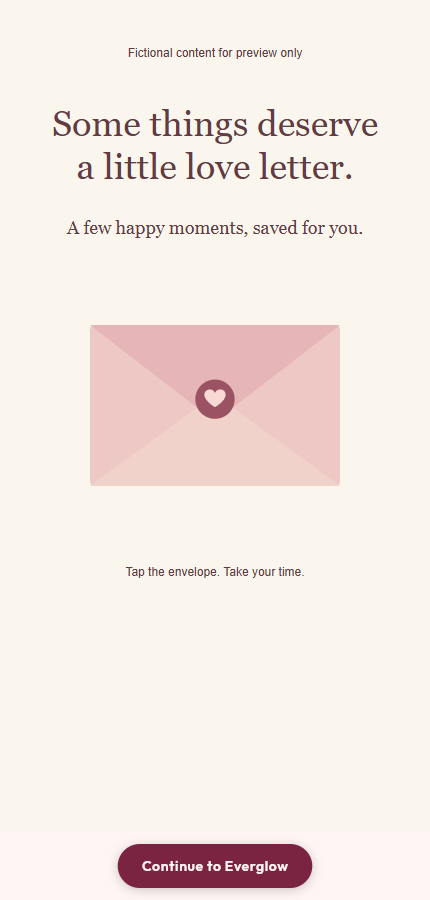
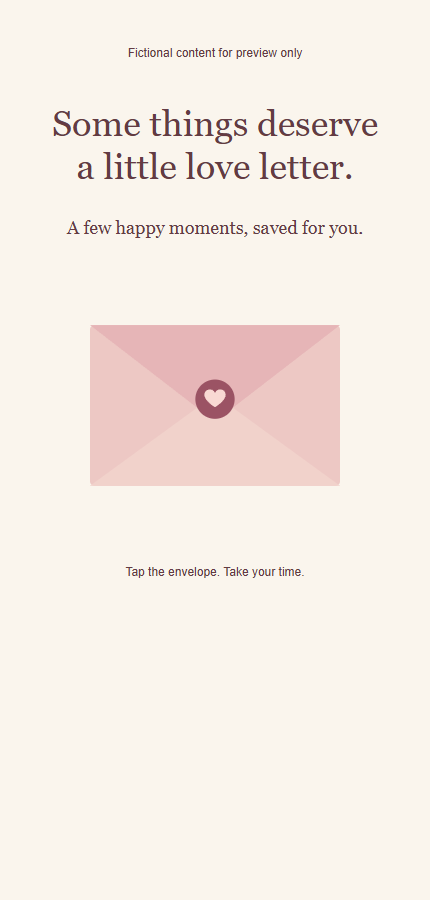
fix(entry): reveal gift continuation after the closing message

Changed region(s): [[0.2721, 0.9333, 0.7256, 0.9956]]

diff --git a/lib/features/entry/presentation/widgets/welcome_gift_gate.dart b/lib/features/entry/presentation/widgets/welcome_gift_gate.dart
@@ -27,6 +27,7 @@ class WelcomeGiftGate extends StatefulWidget {
 class _WelcomeGiftGateState extends State<WelcomeGiftGate> {
   late final WelcomeGiftService _service;
   String? _html;
+  bool _contentFinished = false;
   bool _saving = false;
   bool _saveFailed = false;
 
@@ -42,6 +43,7 @@ class _WelcomeGiftGateState extends State<WelcomeGiftGate> {
     super.didUpdateWidget(oldWidget);
     if (oldWidget.recipientUid != widget.recipientUid) {
       _html = null;
+      _contentFinished = false;
       _saving = false;
       _saveFailed = false;
       unawaited(_load());
@@ -58,7 +60,7 @@ class _WelcomeGiftGateState extends State<WelcomeGiftGate> {
 
   Future<void> _complete() async {
     final uid = widget.recipientUid;
-    if (_saving || uid == null) return;
+    if (!_contentFinished || _saving || uid == null) return;
     setState(() {
       _saving = true;
       _saveFailed = false;
@@ -94,34 +96,44 @@ class _WelcomeGiftGateState extends State<WelcomeGiftGate> {
         ExcludeFocus(child: ExcludeSemantics(child: widget.child)),
         Scaffold(
           backgroundColor: AppColors.petalWhite,
-          body: SafeArea(bottom: false, child: CanvasHtmlView(html: html)),
-          bottomNavigationBar: SafeArea(
-            top: false,
-            child: Padding(
-              padding: const EdgeInsets.fromLTRB(20, 12, 20, 12),
-              child: Column(
-                mainAxisSize: MainAxisSize.min,
-                children: [
-                  if (_saveFailed)
-                    const Padding(
-                      padding: EdgeInsets.only(bottom: 10),
-                      child: Text(
-                        "Couldn't save right now. Check your connection and try again.",
-                        textAlign: TextAlign.center,
-                        style: TextStyle(color: AppColors.roseDepths),
-                      ),
-                    ),
-                  EverglowButton(
-                    label: _saving ? 'Saving...' : 'Continue to Everglow',
-                    enabled: !_saving,
-                    onPressed: _complete,
-                    backgroundColor: AppColors.roseDepths,
-                    foregroundColor: AppColors.petalWhite,
-                  ),
-                ],
-              ),
+          body: SafeArea(
+            bottom: !_contentFinished,
+            child: CanvasHtmlView(
+              html: html,
+              onContentFinishedChanged: (finished) {
+                if (mounted) setState(() => _contentFinished = finished);
+              },
             ),
           ),
+          bottomNavigationBar: !_contentFinished
+              ? null
+              : SafeArea(
+                  top: false,
+                  child: Padding(
+                    padding: const EdgeInsets.fromLTRB(20, 12, 20, 12),
+                    child: Column(
+                      mainAxisSize: MainAxisSize.min,
+                      children: [
+                        if (_saveFailed)
+                          const Padding(
+                            padding: EdgeInsets.only(bottom: 10),
+                            child: Text(
+                              "Couldn't save right now. Check your connection and try again.",
+                              textAlign: TextAlign.center,
+                              style: TextStyle(color: AppColors.roseDepths),
+                            ),
+                          ),
+                        EverglowButton(
+                          label: _saving ? 'Saving...' : 'Continue to Everglow',
+                          enabled: !_saving,
+                          onPressed: _complete,
+                          backgroundColor: AppColors.roseDepths,
+                          foregroundColor: AppColors.petalWhite,
+                        ),
+                      ],
+                    ),
+                  ),
+                ),
         ),
       ],
     );

diff --git a/test/features/entry/welcome_gift_gate_test.dart b/test/features/entry/welcome_gift_gate_test.dart
@@ -58,6 +58,11 @@ void main() {
       await tester.pumpWidget(_app(service));
       await tester.pump();
       expect(find.byType(CanvasHtmlView), findsOneWidget);
+      expect(find.text('Continue to Everglow'), findsNothing);
+      tester
+          .widget<CanvasHtmlView>(find.byType(CanvasHtmlView))
+          .onContentFinishedChanged!(true);
+      await tester.pump();
       await tester.tap(find.text('Continue to Everglow'));
       await tester.pump();
       expect(find.text('Saving...'), findsOneWidget);
@@ -93,6 +98,10 @@ void main() {
     final service = _GiftService()..failSave = true;
     await tester.pumpWidget(_app(service));
     await tester.pump();
+    tester
+        .widget<CanvasHtmlView>(find.byType(CanvasHtmlView))
+        .onContentFinishedChanged!(true);
+    await tester.pump();
     await tester.tap(find.text('Continue to Everglow'));
     await tester.pumpAndSettle();
     expect(find.textContaining("Couldn't save right now"), findsOneWidget);
@@ -102,6 +111,32 @@ void main() {
     await tester.pumpAndSettle();
     expect(find.byType(CanvasHtmlView), findsNothing);
     expect(service.saves, 2);
+  }, variant: linux);
+
+  testWidgets('reading, restart and recipient change hide Continue', (
+    tester,
+  ) async {
+    final service = _GiftService();
+    await tester.pumpWidget(_app(service));
+    await tester.pump();
+    final report = tester
+        .widget<CanvasHtmlView>(find.byType(CanvasHtmlView))
+        .onContentFinishedChanged!;
+    report(false);
+    await tester.pump();
+    expect(find.text('Continue to Everglow'), findsNothing);
+    report(true);
+    await tester.pump();
+    expect(find.text('Continue to Everglow'), findsOneWidget);
+    report(false);
+    await tester.pump();
+    expect(find.text('Continue to Everglow'), findsNothing);
+    report(true);
+    await tester.pump();
+    await tester.pumpWidget(_app(service, uid: 'another-recipient'));
+    await tester.pump();
+    expect(find.text('Continue to Everglow'), findsNothing);
+    expect(service.saves, 0);
   }, variant: linux);
 
   testWidgets('a delayed read cannot reveal the gift after sign-out', (
@@ -124,6 +159,11 @@ void main() {
       addTearDown(tester.view.resetPhysicalSize);
       addTearDown(tester.view.resetDevicePixelRatio);
       await tester.pumpWidget(_app(_GiftService()));
+      await tester.pumpAndSettle();
+      expect(find.text('Continue to Everglow'), findsNothing);
+      tester
+          .widget<CanvasHtmlView>(find.byType(CanvasHtmlView))
+          .onContentFinishedChanged!(true);
       await tester.pumpAndSettle();
       expect(find.text('Continue to Everglow'), findsOneWidget);
       expect(tester.takeException(), isNull);

diff --git a/tool/welcome_gift_preview.dart b/tool/welcome_gift_preview.dart
@@ -64,5 +64,6 @@ const _html =
 <style>*{box-sizing:border-box}body{margin:0;background:#faf5ed;color:#633b43;font-family:Georgia,serif;text-align:center;padding:42px 24px}h1{font-weight:400;font-size:clamp(36px,6vw,52px);line-height:1.18;margin:40px auto 24px;max-width:520px}p{font-size:18px;line-height:1.8;max-width:420px;margin:24px auto}button{border:0;background:transparent;cursor:pointer;padding:16px;color:inherit;font:inherit}button:focus-visible{outline:3px solid #934c60;outline-offset:6px}svg{width:250px;max-width:100%;margin:24px auto}small{font:12px/1.7 sans-serif}section[hidden]{display:none}</style>
 <small>Fictional content for preview only</small><section id="opening"><h1>Some things deserve<br>a little love letter.</h1><p>A few happy moments, saved for you.</p>
 <button id="open" aria-label="Open the sample letter"><svg viewBox="0 0 280 198" aria-hidden="true"><rect y="18" width="280" height="180" rx="5" fill="#edc8c4"/><path d="M0 198 140 96 280 198" fill="#f1d2cb"/><path d="M0 18 127 116q13 11 26 0L280 18" fill="#e6b5b7"/><circle cx="140" cy="101" r="22" fill="#9b5364"/><path d="M140 110s-12-7-12-14c0-7 10-8 12-2 2-6 12-5 12 2 0 7-12 14-12 14Z" fill="#f9d9d3"/></svg></button><p><small>Tap the envelope. Take your time.</small></p></section>
-<section id="letter" hidden><h1>A little note for you.</h1><p>Thank you for an afternoon full of laughter by the lake. Here's to more little adventures together.</p><p><small>This is a synthetic note. No real journal data is included.</small></p></section>
-<script>document.getElementById('open').onclick=()=>{document.getElementById('opening').hidden=true;document.getElementById('letter').hidden=false;};</script></html>''';
+<section id="letter" hidden><h1>A little note for you.</h1><p>Thank you for an afternoon full of laughter by the lake. Here's to more little adventures together.</p><p><small>This is a synthetic note. No real journal data is included.</small></p><button id="finish">One more thing</button></section>
+<section id="closing" hidden><h1>Here's to our next adventure.</h1><button id="restart">Start again</button></section>
+<script>document.getElementById('open').onclick=()=>{document.getElementById('opening').hidden=true;document.getElementById('letter').hidden=false;};document.getElementById('finish').onclick=()=>{document.getElementById('letter').hidden=true;document.getElementById('closing').hidden=false;parent.postMessage('everglow:content-finished','*');};document.getElementById('restart').onclick=()=>{document.getElementById('closing').hidden=true;document.getElementById('opening').hidden=false;parent.postMessage('everglow:content-reading','*');};</script></html>''';

diff --git a/lib/features/ai/presentation/widgets/canvas_html_view_web.dart b/lib/features/ai/presentation/widgets/canvas_html_view_web.dart
@@ -1,3 +1,5 @@
+import 'dart:js_interop';
+
 import 'package:flutter/foundation.dart';
 import 'package:flutter/material.dart';
 import 'package:web/web.dart' as web;
@@ -10,8 +12,13 @@ import 'package:web/web.dart' as web;
 /// no network calls), so they run happily inside the sandbox.
 class CanvasHtmlView extends StatefulWidget {
   final String html;
+  final ValueChanged<bool>? onContentFinishedChanged;
 
-  const CanvasHtmlView({super.key, required this.html});
+  const CanvasHtmlView({
+    super.key,
+    required this.html,
+    this.onContentFinishedChanged,
+  });
 
   @override
   State<CanvasHtmlView> createState() => _CanvasHtmlViewState();
@@ -19,6 +26,21 @@ class CanvasHtmlView extends StatefulWidget {
 
 class _CanvasHtmlViewState extends State<CanvasHtmlView> {
   web.HTMLIFrameElement? _iframe;
+  late final JSFunction _messageListener = ((web.Event event) {
+    final message = event as web.MessageEvent;
+    if (_iframe == null ||
+        !message.source.strictEquals(_iframe!.contentWindow).toDart) {
+      return;
+    }
+    if (message.data == null || !message.data.isA<JSString>()) return;
+    final data = (message.data as JSString).toDart;
+    if (data == 'everglow:content-finished' ||
+        data == 'everglow:content-reading') {
+      widget.onContentFinishedChanged?.call(
+        data == 'everglow:content-finished',
+      );
+    }
+  }).toJS;
 
   @visibleForTesting
   web.HTMLIFrameElement? get debugIframe => _iframe;
@@ -27,6 +49,7 @@ class _CanvasHtmlViewState extends State<CanvasHtmlView> {
   void initState() {
     super.initState();
     if (kIsWeb) {
+      web.window.addEventListener('message', _messageListener);
       _iframe = web.HTMLIFrameElement()
         // setAttribute (not IDL properties) so huge inline docs and the
         // sandbox token list apply reliably across browsers.
@@ -50,6 +73,7 @@ class _CanvasHtmlViewState extends State<CanvasHtmlView> {
 
   @override
   void dispose() {
+    web.window.removeEventListener('message', _messageListener);
     _iframe?.removeAttribute('srcdoc');
     _iframe?.src = 'about:blank';
     _iframe?.remove();

diff --git a/lib/features/ai/presentation/widgets/canvas_html_view_stub.dart b/lib/features/ai/presentation/widgets/canvas_html_view_stub.dart
@@ -10,12 +10,17 @@ import '../../../../core/theme/app_typography.dart';
 /// tablet — not just the web app.
 ///
 /// Isolation: JavaScript runs (games need it), but the controller exposes
-/// no JavaScript channels, and every navigation attempt is blocked, so the
+/// only an optional reading-state channel, and navigation is blocked, so the
 /// app can't leave its single page or reach app state.
 class CanvasHtmlView extends StatefulWidget {
   final String html;
+  final ValueChanged<bool>? onContentFinishedChanged;
 
-  const CanvasHtmlView({super.key, required this.html});
+  const CanvasHtmlView({
+    super.key,
+    required this.html,
+    this.onContentFinishedChanged,
+  });
 
   @override
   State<CanvasHtmlView> createState() => _CanvasHtmlViewState();
@@ -50,8 +55,21 @@ class _CanvasHtmlViewState extends State<CanvasHtmlView> {
               if (mounted) setState(() => _loading = false);
             },
           ),
-        )
-        ..loadHtmlString(widget.html);
+        );
+      if (widget.onContentFinishedChanged != null) {
+        controller.addJavaScriptChannel(
+          'EverglowCanvas',
+          onMessageReceived: (message) {
+            if (message.message == 'everglow:content-finished' ||
+                message.message == 'everglow:content-reading') {
+              widget.onContentFinishedChanged?.call(
+                message.message == 'everglow:content-finished',
+              );
+            }
+          },
+        );
+      }
+      controller.loadHtmlString(widget.html);
       _controller = controller;
     } else {
       _loading = false;

diff --git a/docs/WELCOME_GIFT.md b/docs/WELCOME_GIFT.md
@@ -25,7 +25,13 @@ normally and tries again on a later session; a failed completion keeps the gift
 open with a retry message. Offline opening does not consume the gift.
 
 The existing sandboxed HTML viewer keeps the document isolated from app state.
-Continue belongs to Flutter, so the HTML has no bridge to account data.
+Continue belongs to Flutter and stays hidden until the letter's final action
+opens the closing message. The document reports `everglow:content-finished`
+at that point and `everglow:content-reading` when restarting or revisiting.
+The optional viewer callback accepts only those two messages; web messages
+must come from this viewer's own iframe. Native uses the optional
+`EverglowCanvas` JavaScript channel. Neither exposes account data or writes a
+receipt. Only the visible Flutter Continue button completes the gift.
 
 For a synthetic local preview:
 
